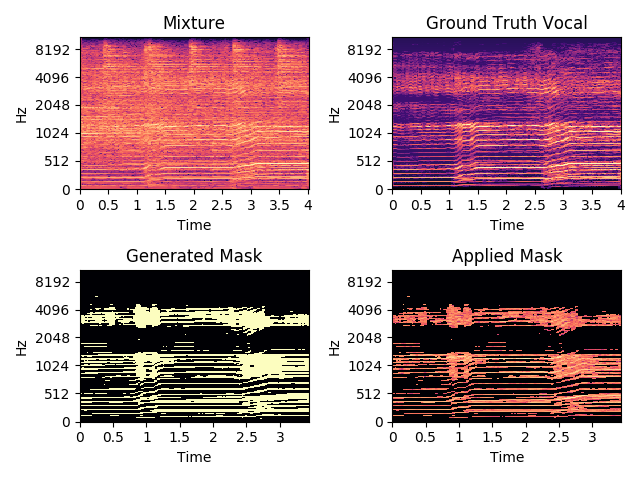
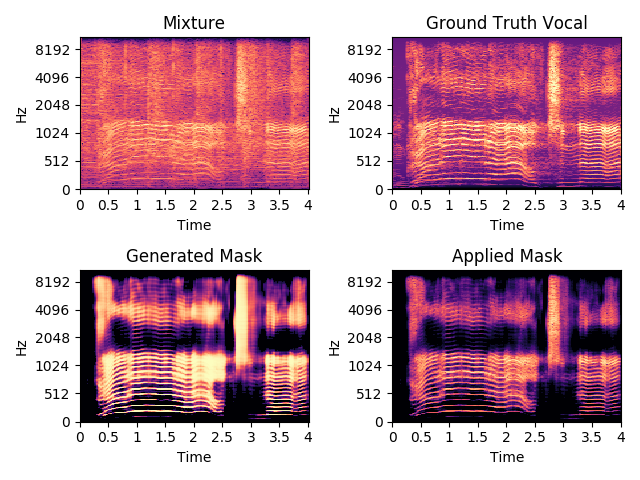
update mask spectrograms

diff --git a/README.md b/README.md
@@ -76,7 +76,7 @@ This will generate a vocal wav file in the `generated` directory. Below are the 
 
 ### Training
 
-A one-cycle learning rate scheduler [5] was used to train the model. A learning rate finder was used find reasonable learning rate boundaries [4]. Based on the plot below, the learning range was selected to be from 1e-4 to 3e-3 from iterations 0 to 3458, then back down to 1e-4 from iterations 3458 to 6917, then trailing down to 1e-6 until iteration 7686.  
+A one-cycle learning rate scheduler [5] was used to train the model. A learning rate finder was used to find reasonable learning rate boundaries [4]. Based on the plot below, the learning range was selected to be from 1e-4 to 3e-3 from iterations 0 to 3458, then back down to 1e-4 from iterations 3458 to 6917, then trailing down to 1e-6 until iteration 7686.  
 
 <p align="center">
     <img src="assets/lr_find.png" width="60%"/>
@@ -90,7 +90,7 @@ The model was trained using the AdamW optimizer [6] with `beta1` 0.9, `beta2` 0.
 
 ### Generated Masks  
 
-Below are example binary masks generated by the model and the corresponding masked-mixture spectrograms.  
+Below are example soft masks generated by the model and the corresponding masked-mixture spectrograms.  
 
 <p align="center">
     <img src="assets/mask1.png" width="45%"/> <img src="assets/mask2.png" width="45%"/>
